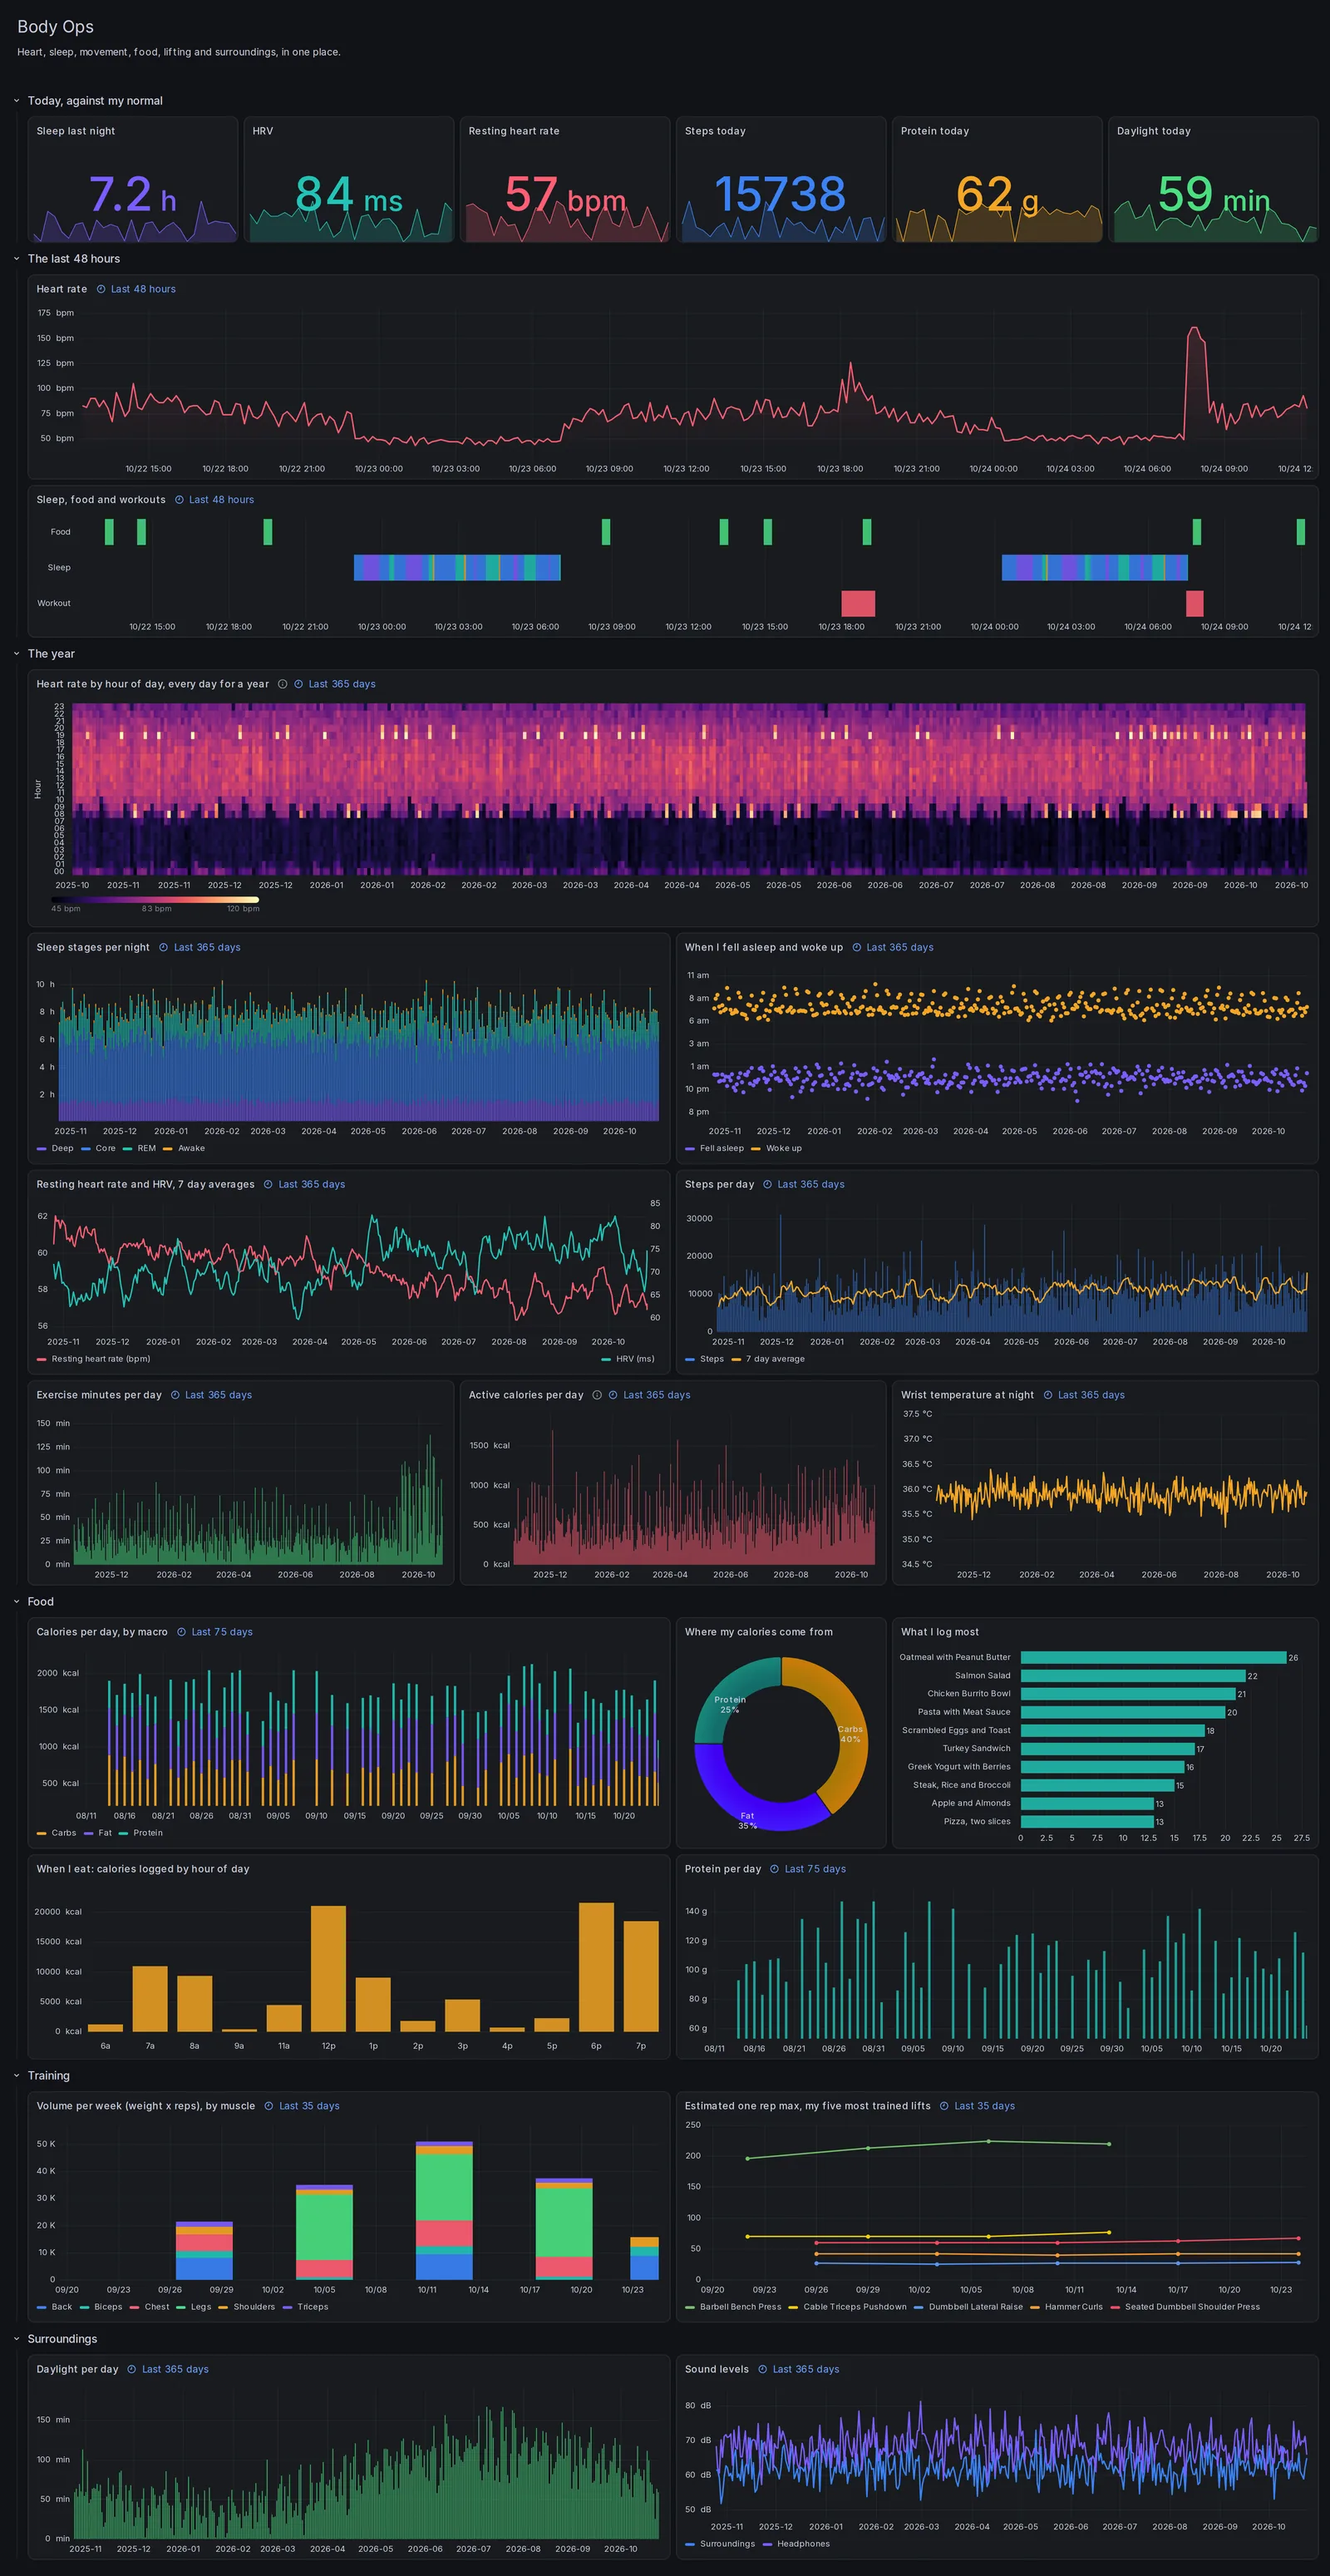
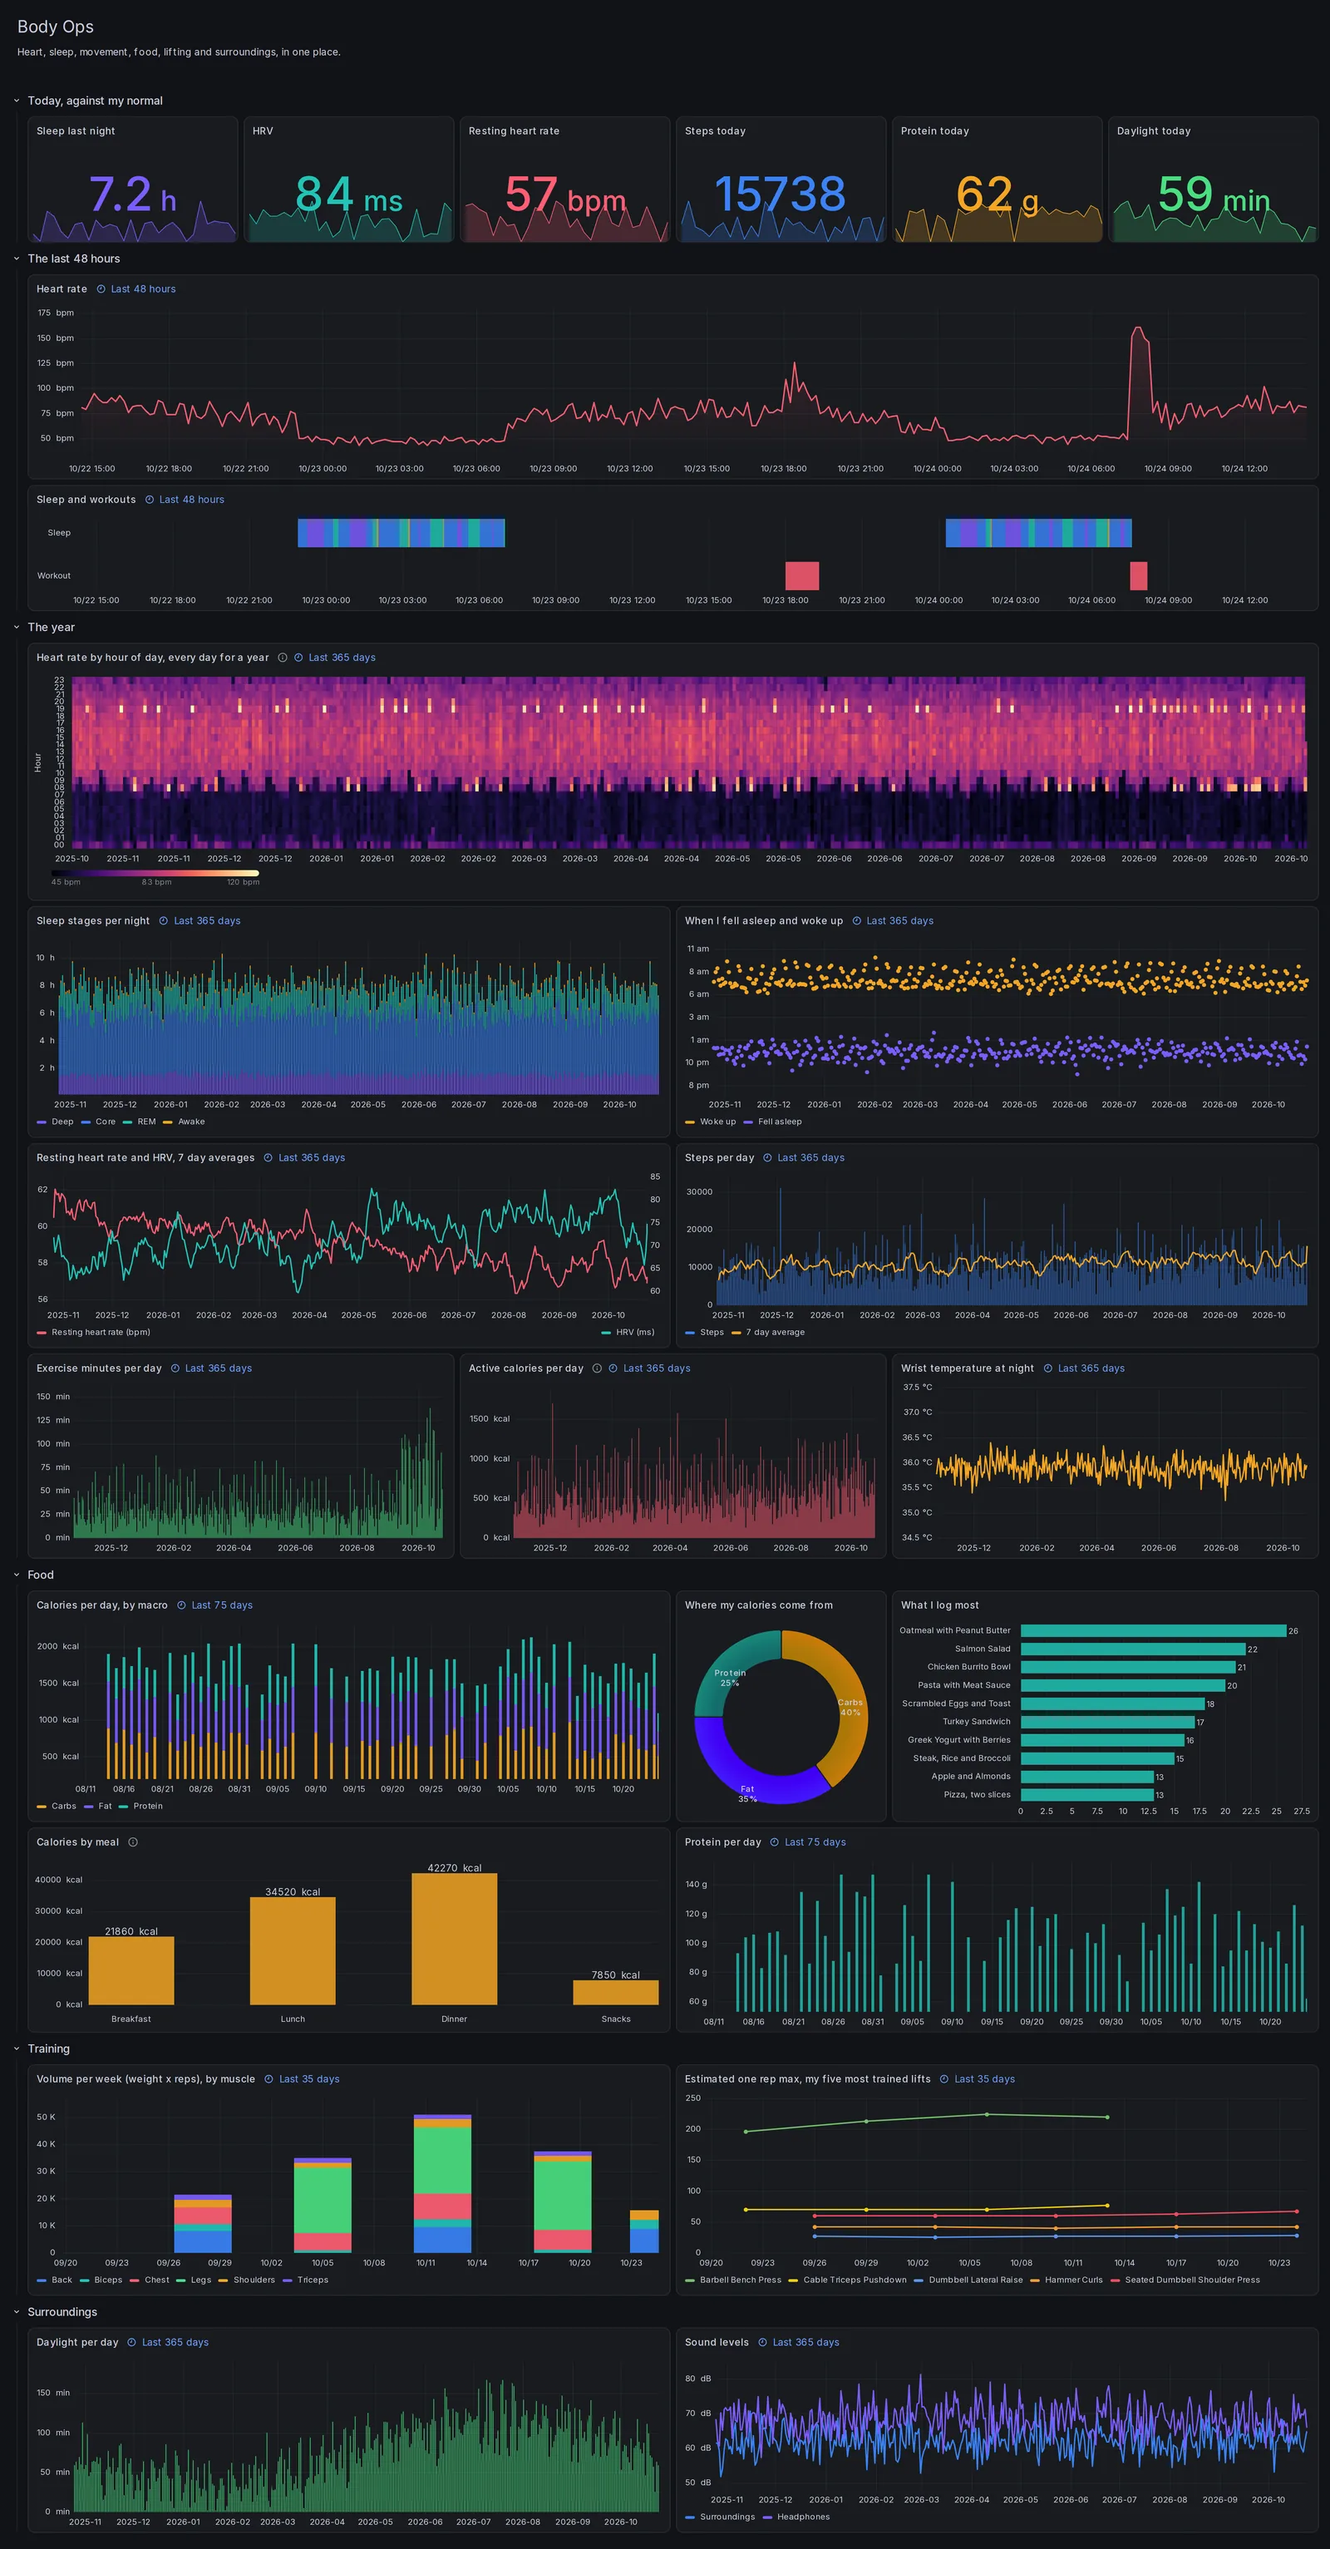
Body Ops: no meals on the clock, calories by meal instead
A meal's time is when it was logged, and Marrow gives meals logged into a
slot a default time (breakfast 8 am, lunch noon, dinner 6 pm), so meals sat
inside sleep and workouts on the 48 hour timeline. The timeline now shows
sleep and workouts, and calories by hour becomes calories by meal.

diff --git a/projects/body-ops/dashboard/overview.py b/projects/body-ops/dashboard/overview.py
@@ -29,27 +29,26 @@ END = "date.add(d: duration(v: int(v: {secs} * 1000000000.0) - 1), to: r._time)"
 tl = flux(f'''sl = from(bucket: "health") |> {RANGE}
   |> filter(fn: (r) => r._measurement == "sample" and r.metric == "sleep_analysis" and r._field == "dur_s")
   |> filter(fn: (r) => r.stage == "rem" or r.stage == "core" or r.stage == "deep" or r.stage == "awake") |> group()
-ml = from(bucket: "health") |> {RANGE}
-  |> filter(fn: (r) => r._measurement == "meal" and r._field == "kcal") |> group()
 wk = from(bucket: "health") |> {RANGE}
   |> filter(fn: (r) => r._measurement == "workout" and r._field == "duration_min") |> group()
 union(tables: [
   sl |> map(fn: (r) => ({{_time: r._time, row: "Sleep", _value: if r.stage == "rem" then "REM" else if r.stage == "core" then "Core" else if r.stage == "deep" then "Deep" else "Awake"}})),
   sl |> map(fn: (r) => ({{_time: {END.format(secs="r._value")}, row: "Sleep", _value: "-"}})),
-  ml |> map(fn: (r) => ({{_time: r._time, row: "Food", _value: "Meal"}})),
-  ml |> map(fn: (r) => ({{_time: {END.format(secs="1200.0")}, row: "Food", _value: "-"}})),
   wk |> map(fn: (r) => ({{_time: r._time, row: "Workout", _value: r.activity}})),
   wk |> map(fn: (r) => ({{_time: {END.format(secs="r._value * 60.0")}, row: "Workout", _value: "-"}}))])
   |> group(columns: ["row"]) |> sort(columns: ["_time"])''')
 STATES = {**STAGE, "Meal": GREEN, "Running": CORAL, "Strength": CORAL, "Cycling": CORAL, "Walking": CORAL}
-b.add({"type": "state-timeline", "title": "Sleep, food and workouts", "targets": [target(tl)], "timeFrom": "48h",
+# No food row: a meal's time is Marrow's default for its slot (breakfast 8 am,
+# lunch noon, dinner 6 pm) unless it was logged as it was eaten, so meals
+# would sit inside sleep and workouts that they never overlapped.
+b.add({"type": "state-timeline", "title": "Sleep and workouts", "targets": [target(tl)], "timeFrom": "48h",
        "fieldConfig": {"defaults": {"color": color(GREY), "custom": {"fillOpacity": 85, "lineWidth": 0},
                                     "mappings": [{"type": "value", "options": {"-": {"color": "transparent", "text": " ",
                                                                                      "index": 99}}}] +
                                     [{"type": "value", "options": {k: {"color": c, "index": i}}}
                                      for i, (k, c) in enumerate(STATES.items())]}, "overrides": []},
        "options": {"showValue": "never", "mergeValues": True, "rowHeight": 0.8, "legend": {"showLegend": False},
-                   "tooltip": {"mode": "single"}}}, 0, 24, 6, newline=True)
+                   "tooltip": {"mode": "single"}}}, 0, 24, 5, newline=True)
 
 # ---- the year (the watch has all of it) ------------------------------------------------------
 b.row("The year")
@@ -135,17 +134,19 @@ b.add({"type": "barchart", "title": "What I log most", "targets": [target(foods)
                        "overrides": []},
        "options": {"xField": "Food", "orientation": "horizontal", "showValue": "auto", "barWidth": 0.7,
                    "legend": {"showLegend": False}}}, 16, 8, 9, newline=True)
-when = flux('''from(bucket: "health") |> range(start: -365d)
+slots = flux('''from(bucket: "health") |> range(start: -365d)
   |> filter(fn: (r) => r._measurement == "meal" and r._field == "kcal")
-  |> map(fn: (r) => ({hour: date.hour(t: r._time), _value: r._value}))
-  |> group(columns: ["hour"]) |> sum() |> group() |> sort(columns: ["hour"])
-  |> map(fn: (r) => ({Hour: if r.hour == 0 then "12a" else if r.hour < 12 then string(v: r.hour) + "a"
-                              else if r.hour == 12 then "12p" else string(v: r.hour - 12) + "p", Calories: r._value}))''')
-b.add({"type": "barchart", "title": "When I eat: calories logged by hour of day", "targets": [target(when)],
+  |> group(columns: ["meal"]) |> sum() |> group()
+  |> map(fn: (r) => ({rank: if r.meal == "breakfast" then 1 else if r.meal == "lunch" then 2 else if r.meal == "dinner" then 3 else 4,
+                      Meal: if r.meal == "breakfast" then "Breakfast" else if r.meal == "lunch" then "Lunch"
+                            else if r.meal == "dinner" then "Dinner" else "Snacks", Calories: r._value}))
+  |> sort(columns: ["rank"]) |> drop(columns: ["rank"])''')
+b.add({"type": "barchart", "title": "Calories by meal", "targets": [target(slots)],
+       "description": "Everything logged, by the meal it was logged to.",
        "fieldConfig": {"defaults": {"color": color(AMBER), "custom": {"fillOpacity": 85, "lineWidth": 0}},
                        "overrides": [by_name("Calories", more=[{"id": "unit", "value": "suffix: kcal"}])]},
-       "options": {"xField": "Hour", "orientation": "vertical", "showValue": "never", "barWidth": 0.8,
-                   "legend": {"showLegend": False}, "xTickLabelSpacing": 0}}, 0, 12, 8)
+       "options": {"xField": "Meal", "orientation": "vertical", "showValue": "auto", "barWidth": 0.6,
+                   "legend": {"showLegend": False}}}, 0, 12, 8)
 prot = flux(f'''from(bucket: "health") |> {RANGE}
   |> filter(fn: (r) => r._measurement == "meal" and r._field == "protein_g")
   |> group() |> aggregateWindow(every: 1d, fn: sum, createEmpty: false)''')

diff --git a/projects/body-ops/README.md b/projects/body-ops/README.md
@@ -1,6 +1,6 @@
 # Body Ops
 
-Every signal your phone, watch and logs collect, on one Grafana dashboard that updates itself every hour: a year of heart rate by the hour, sleep stages and bed and wake times, resting heart rate and HRV, steps and exercise, food by macro and by hour, training volume by muscle and estimated one rep maxes, daylight and sound.
+Every signal your phone, watch and logs collect, on one Grafana dashboard that updates itself every hour: a year of heart rate by the hour, sleep stages and bed and wake times, resting heart rate and HRV, steps and exercise, food by macro and by meal, training volume by muscle and estimated one rep maxes, daylight and sound.
 
 ![Body Ops with a year of made-up demo data](docs/dashboard.webp)
 
@@ -82,9 +82,9 @@ Raw samples are big: about 70,000 readings and 8 MB for every month of history. 
 | Section | Panels |
 |---|---|
 | Today | sleep last night, HRV, resting heart rate, steps, protein, daylight, each with its 30 day trend |
-| The last 48 hours | heart rate, and a timeline of every sleep stage, meal and workout |
+| The last 48 hours | heart rate, and a timeline of every sleep stage and workout |
 | The year | heart rate by hour of day for every day, sleep stages per night, bed and wake times, resting heart rate and HRV, steps, exercise minutes, active calories, wrist temperature |
-| Food | calories by macro per day, where calories come from, most logged foods, calories by hour of day, protein per day |
+| Food | calories by macro per day, where calories come from, most logged foods, calories by meal, protein per day |
 | Training | weekly volume by muscle, estimated one rep max for your five most trained lifts |
 | Surroundings | daylight, environmental and headphone sound levels |
 
@@ -98,10 +98,12 @@ The bridge (`bridge/bridge.py`, standard library Python) accepts every automatio
 | Health metrics, raw samples | `sample` | metric, units, stage, source | sample start |
 | Workouts | `workout` | activity, source | start |
 | Strength log | `set` | exercise, muscle, session, set_type, unit, n | set time |
-| Nutrition diary | `meal` (name in `food`, nutrients as `n_*`) | day, idx, meal | logged time |
+| Nutrition diary | `meal` (name in `food`, nutrients as `n_*`) | day, idx, meal | logged time (see below) |
 | Symptoms and mood | `symptom`, `mood` | name and severity, kind | start or time |
 
 Marrow re-sends the last two days on every "Since last run" on purpose, so the bridge treats every point as latest-wins, and a food day is cleared and rewritten so deleted entries disappear. Each set is tagged with its main muscle from `bridge/muscles.json`, built from the public domain [free-exercise-db](https://github.com/yuhonas/free-exercise-db).
+
+A meal's time is when it was logged, and Marrow uses a default time for each meal (breakfast 8 am, lunch noon, dinner 6 pm) when you log into a meal rather than as you eat. So the dashboard groups food by meal and by day, never by the clock.
 
 To rebuild InfluxDB from the archive: `docker compose exec bridge python3 /app/bridge.py replay`.
 
